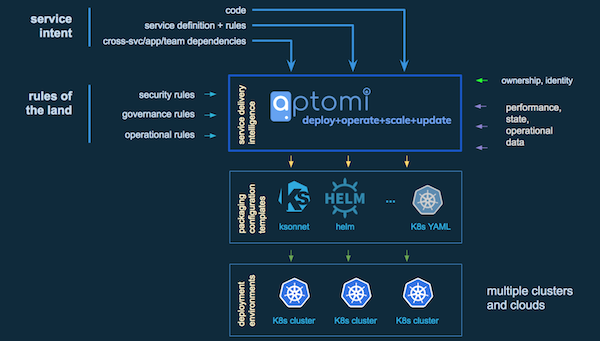
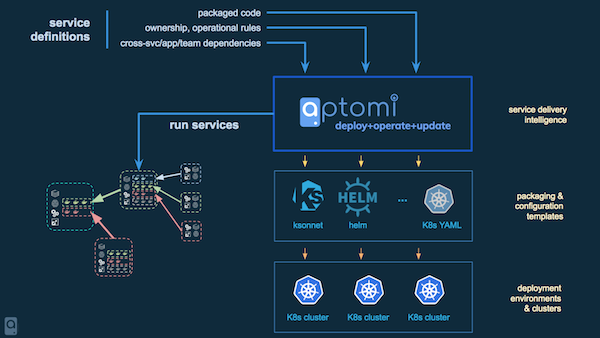
changed overview and replaced the image

diff --git a/README.md b/README.md
@@ -9,14 +9,11 @@
 [![GitHub last commit](https://img.shields.io/github/last-commit/Aptomi/aptomi.svg)](https://github.com/Aptomi/aptomi/commits/master)
 [![Slack Status](https://img.shields.io/badge/slack-join_channel-ff69b4.svg)](http://slack.aptomi.io)
 
-[Aptomi](http://aptomi.io) simplifies roll-out, operation and control of container-based applications on **Kubernetes**. It introduces a
-**service-centric abstraction** that allows Dev and Ops to collaborate asynchronously. It enables teams to create and operate services,
-share them across the organization, fully control their lifecycle while enforcing Ops/Governance policies. Changes and updates are executed
-with a goal of minimizing disruptive impact on depending services.
+[Aptomi](http://aptomi.io) is a platform for development teams that simplifies roll-out and operation of container-based applications on **Kubernetes**. It introduces a service-centric abstraction, which allows to compose applications from multiple components connected together. It supports components packaged using Helm, ksonnet, k8s YAMLs or any other Kubernetes-friendly way.
 
-It is particularly useful in environments with multiple teams, clouds and data centers, where intent-based management
-plays an important role in running large application infrastructure. Aptomi’s current focus is Kubernetes, but it's
-designed to work with any container runtime and container orchestration technologies.
+Aptomi **application delivery** model becomes especially powerful in a **multi-team** setup, where components owned by different teams must be put together into a service. With ownership boundaries, Dev teams can specify **multi-cluster** and **multi-env** (e.g. dev, stage, prod) service behavior, as well as control lifecycle and updates of their respective services.
+
+It also provides contextual **visibility** into teams and services, allowing to visualize dependencies and impact of changes. 
 
 ![What is Aptomi](images/aptomi-what-is.png)
 
@@ -48,6 +45,7 @@ designed to work with any container runtime and container orchestration technolo
 <!-- END doctoc generated TOC please keep comment here to allow auto update -->
 
 ## Features & Benefits
+
 - **Deploy and manage container-based applications with ease**
   - Dev and Ops think applications and services, not infrastructure primitives and thousands of containers
   - Built-in service discovery ensures all dependencies always are up to date
